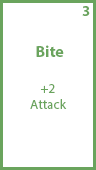
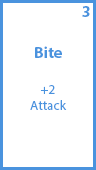
changes to card images. fix to database problem.

diff --git a/main/SuperAwsomeCardGame/src/GameServer/Users/LogIn.java b/main/SuperAwsomeCardGame/src/GameServer/Users/LogIn.java
@@ -67,7 +67,6 @@ public class LogIn implements Remote, Serializable {
 				u.setImageBytes(blob.getBytes(1, (int) blob.length()));
 			u.setLocation(rs.getString("Location"));
 			u.setParanoid(rs.getBoolean("Paranoia"));
-			dbh.closeConnection();
 		} else {
 			throw new Exception("There was an error updating the user!");
 		}
@@ -120,7 +119,6 @@ public class LogIn implements Remote, Serializable {
 			u.setLocation(rs.getString("Location"));
 			u.setParanoid(rs.getBoolean("Paranoia"));
 
-			dbh.closeConnection();
 			return u;
 		} else {
 			throw new Exception("Username or password was incorrect!");
@@ -166,7 +164,6 @@ public class LogIn implements Remote, Serializable {
 			u.setLocation(rs.getString("Location"));
 			u.setParanoid(rs.getBoolean("Paranoia"));
 
-			dbh.closeConnection();
 			return u;
 		} else {
 			throw new Exception("Username or password was incorrect!");
@@ -189,7 +186,6 @@ public class LogIn implements Remote, Serializable {
 			e.printStackTrace();
 		}
 
-		dbh.closeConnection();
 		return userName;
 	}
 
@@ -222,7 +218,6 @@ public class LogIn implements Remote, Serializable {
 			fl.add(new Feedback(ID, uID, desc, isPos, byID));
 		}
 
-		dbh.closeConnection();
 		return fl;
 	}
 
@@ -266,13 +261,11 @@ public class LogIn implements Remote, Serializable {
 			UserStats us = new UserStats(id, uID, karma, totalPoints, gamesWon,
 					gamesPlayed);
 
-			dbh.closeConnection();
 			return us;
 		} catch (Exception ex) {
 			ex.printStackTrace();
 		}
 
-		dbh.closeConnection();
 		return null;
 	}
 
@@ -299,7 +292,6 @@ public class LogIn implements Remote, Serializable {
 			e.printStackTrace();
 		}
 
-		dbh.closeConnection();
 		return karma;
 
 	}
@@ -315,7 +307,6 @@ public class LogIn implements Remote, Serializable {
 				+ u.Statistics.getTotalPoints();
 		query = query + " WHERE UserID=" + u.getID();
 		dbh.executeUpdate(query);
-		dbh.closeConnection();
 	}
 
 	/**
@@ -333,10 +324,8 @@ public class LogIn implements Remote, Serializable {
 		ResultSet rs = dbh.executeQuery(query);
 		if (rs.first()) {
 
-			dbh.closeConnection();
 			return true;
 		} else {
-			dbh.closeConnection();
 			return false;
 		}
 	}
@@ -388,7 +377,6 @@ public class LogIn implements Remote, Serializable {
 		String query = "UPDATE User SET Flagged=" + bit + ",BannedReason='"
 				+ reason + "' WHERE Username='" + username + "'";
 		dbh.executeUpdate(query);
-		dbh.closeConnection();
 	}
 
 	/**
@@ -446,7 +434,6 @@ public class LogIn implements Remote, Serializable {
 			throw new Exception("Insert of new user failed!");
 		}
 
-		dbh.closeConnection();
 		return u;
 
 	}
@@ -459,7 +446,6 @@ public class LogIn implements Remote, Serializable {
 		query += "VALUES ('" + userID + "','" + isPositive + "','" + desc
 				+ "','" + byUserID + "')";
 		dbh.executeUpdate(query);
-		dbh.closeConnection();
 	}
 
 	/**
@@ -477,7 +463,6 @@ public class LogIn implements Remote, Serializable {
 		prepStmt.setInt(1, id);
 		prepStmt.execute();
 		conn.close();
-		dbh.closeConnection();
 	}
 
 	/**
@@ -498,7 +483,6 @@ public class LogIn implements Remote, Serializable {
 			report.add(new Report(id, log));
 		}
 
-		dbh.closeConnection();
 		return report;
 	}
 
@@ -535,7 +519,6 @@ public class LogIn implements Remote, Serializable {
 			users.add(u);
 		}
 
-		dbh.closeConnection();
 		return users;
 	}
 
@@ -544,7 +527,6 @@ public class LogIn implements Remote, Serializable {
 		String query = "UPDATE User SET Avatar=" + null + " WHERE Username='"
 				+ username + "'";
 		dbh.executeUpdate(query);
-		dbh.closeConnection();
 	}
 
 	/**
@@ -603,7 +585,6 @@ public class LogIn implements Remote, Serializable {
 			dbh.executeUpdate(query);
 		}
 
-		dbh.closeConnection();
 	}
 
 	public void updateSettings(User u) throws Exception {
@@ -645,7 +626,6 @@ public class LogIn implements Remote, Serializable {
 			dbh.executeUpdate(query);
 		}
 
-		dbh.closeConnection();
 	}
 
 	/**
@@ -665,7 +645,6 @@ public class LogIn implements Remote, Serializable {
 
 		dbh.executeUpdate(query);
 
-		dbh.closeConnection();
 		// if ID == 0 then no user is selected
 	}
 
@@ -684,7 +663,6 @@ public class LogIn implements Remote, Serializable {
 				+ "' WHERE Username='" + username + "'";
 
 		dbh.executeUpdate(query);
-		dbh.closeConnection();
 	}
 
 	/**
@@ -705,13 +683,11 @@ public class LogIn implements Remote, Serializable {
 
 		if (rs.first())
 		{
-			dbh.closeConnection();
 			return true;
 			
 		}
 		else
 		{
-			dbh.closeConnection();
 			return false;
 		}
 		
@@ -734,12 +710,9 @@ public class LogIn implements Remote, Serializable {
 			username = rs.getString("Username");
 		else
 		{
-			dbh.closeConnection();
 			throw new SQLException(); // Throw an exception if we are passed an
 										// e-mail not in the table.
 		}
-
-		dbh.closeConnection();
 		return username;
 	}
 
@@ -760,7 +733,6 @@ public class LogIn implements Remote, Serializable {
 			sq = rs.getString("SecurityQuestion");
 		}
 
-		dbh.closeConnection();
 		return sq;
 	}
 
@@ -792,7 +764,6 @@ public class LogIn implements Remote, Serializable {
 		System.out.println(users.get(0).getID());
 		System.out.println(users.get(1).getID());
 
-		dbh.closeConnection();
 		return users;
 
 	}
@@ -811,7 +782,6 @@ public class LogIn implements Remote, Serializable {
 				+ byUserID + "')";
 		DBHelper dbh = new DBHelper();
 		dbh.executeUpdate(query);
-		dbh.closeConnection();
 	}
 
 	public void insertReport(String text) {
@@ -821,7 +791,6 @@ public class LogIn implements Remote, Serializable {
 		query += "VALUES('" + text + "')";
 		DBHelper dbh = new DBHelper();
 		dbh.executeUpdate(query);
-		dbh.closeConnection();
 	}
 
 }

diff --git a/main/SuperAwsomeCardGame/src/GameServer/GameEngine/Card.java b/main/SuperAwsomeCardGame/src/GameServer/GameEngine/Card.java
@@ -111,7 +111,7 @@ public final class Card implements Serializable {
 		DBHelper dbh = new DBHelper();
 		String query = "SELECT * FROM Cards WHERE Name = '" + cardName + "'";
 		java.sql.ResultSet rs = dbh.executeQuery(query);
-		dbh.closeConnection();
+		
 		
 		rs.next();
 		

diff --git a/main/SuperAwsomeCardGame/src/GameServer/GameEngine/Deck.java b/main/SuperAwsomeCardGame/src/GameServer/GameEngine/Deck.java
@@ -152,7 +152,7 @@ public class Deck {
 			
 			main.addCard(toAdd, NumInDeck);
 		}
-		dbh.closeConnection();
+		
 		return main;
 	}	
 	
@@ -203,7 +203,6 @@ public class Deck {
 			starter.addCard(toAdd, numInDeck);
 		}
 
-		dbh.closeConnection();
 		return starter;
 	}
 
